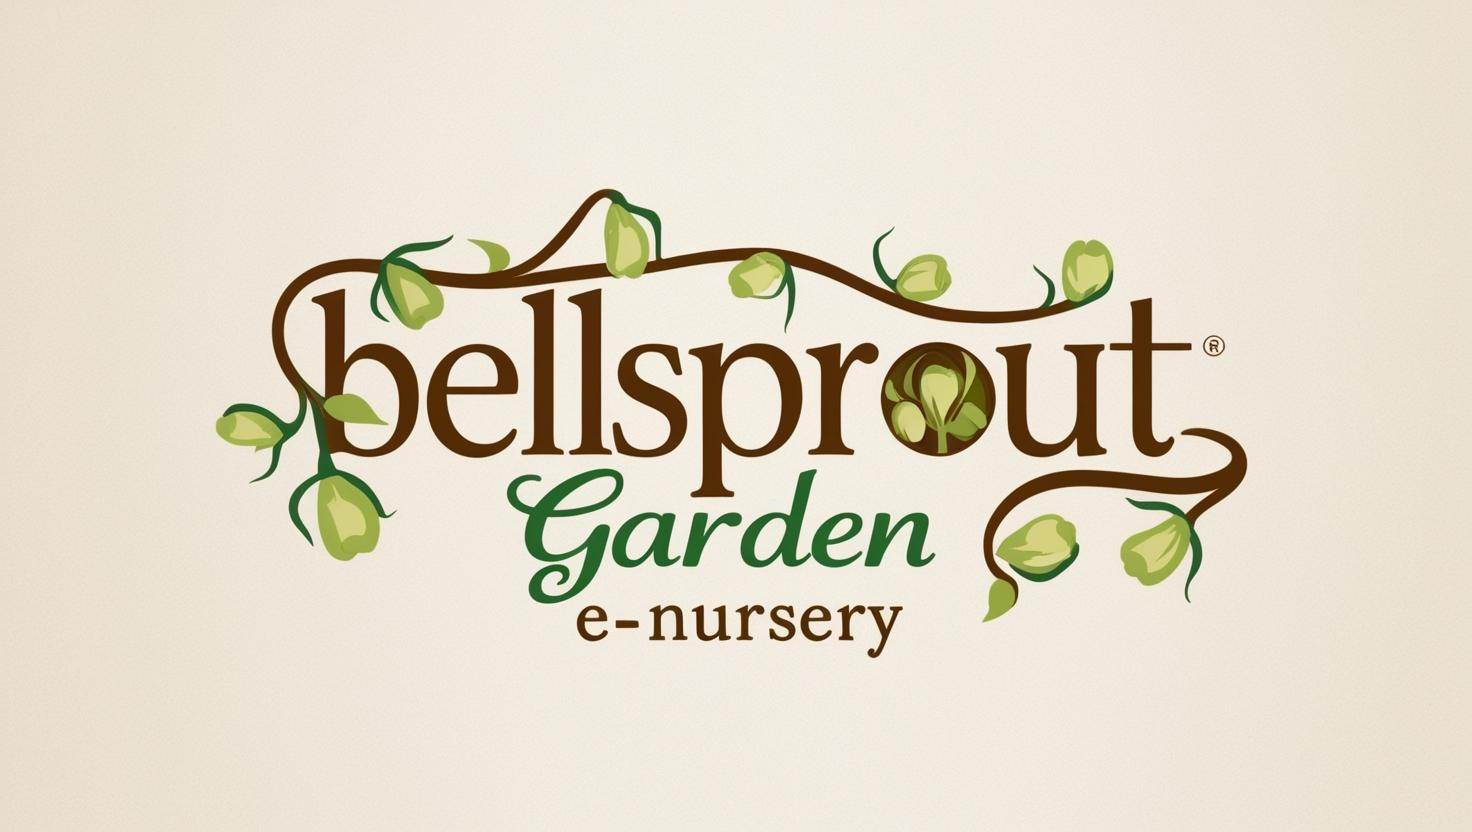
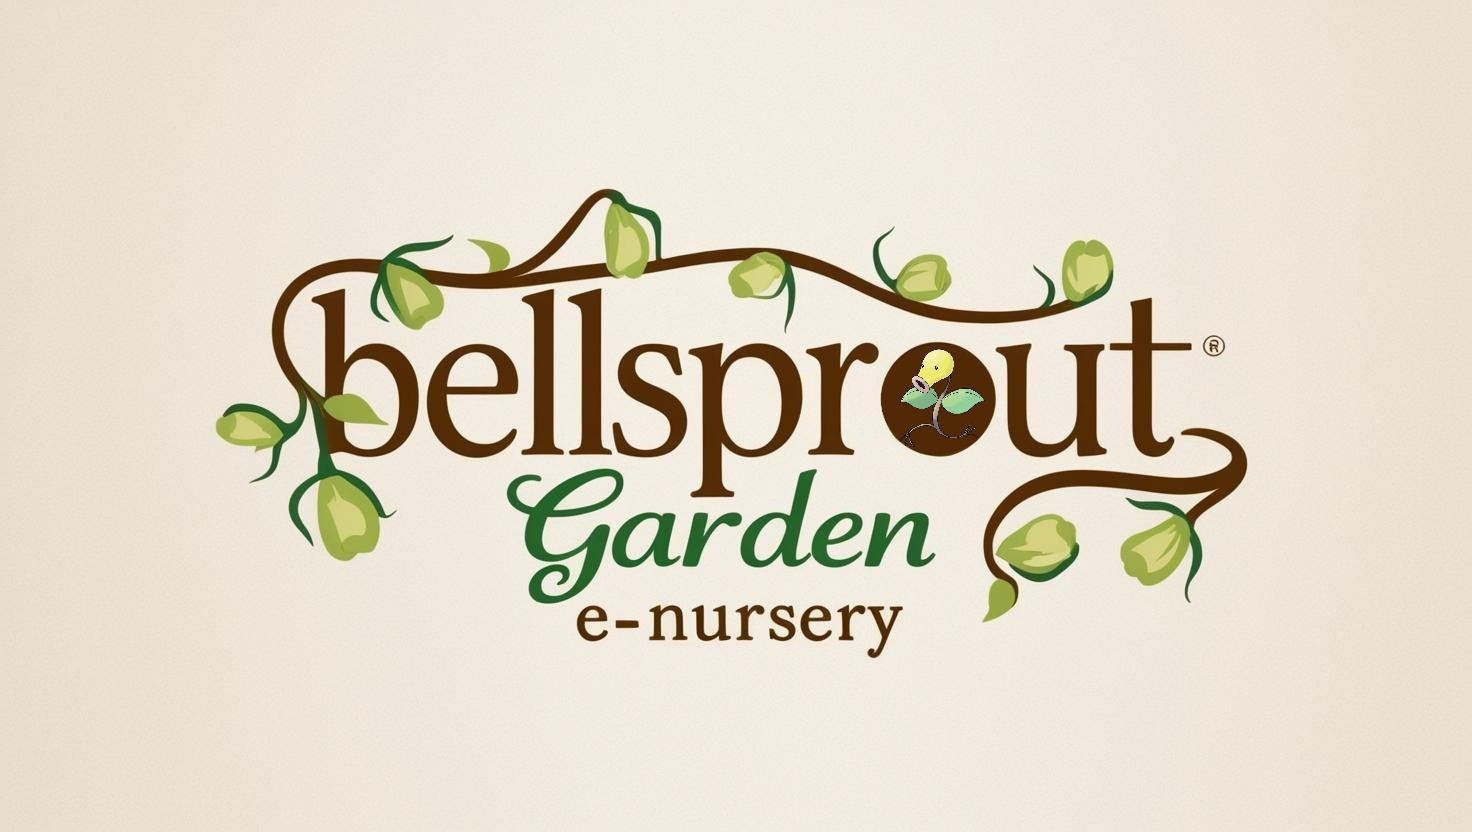
misc

Changed region(s): [[0.5938, 0.4062, 0.6875, 0.5312]]

diff --git a/src/main/resources/static/Front/Bozza Home - AI02.html b/src/main/resources/static/Front/Bozza Home - AI02.html
@@ -49,7 +49,7 @@
             <div class=" container-fluid">
                 <!-- Logo and Company Name -->
                 <div class="navbar-brand d-flex align-items-center" href="#">
-                    <img src="Bellsprout Garden.jpg" alt="Company Logo" class="d-inline-block align-text-top me-3">
+                    <img src="Bellsprout Garden - Copia.jpg" alt="Company Logo" class="d-inline-block align-text-top me-3">
                 </div>
 
                 <!-- Navigation Buttons -->
